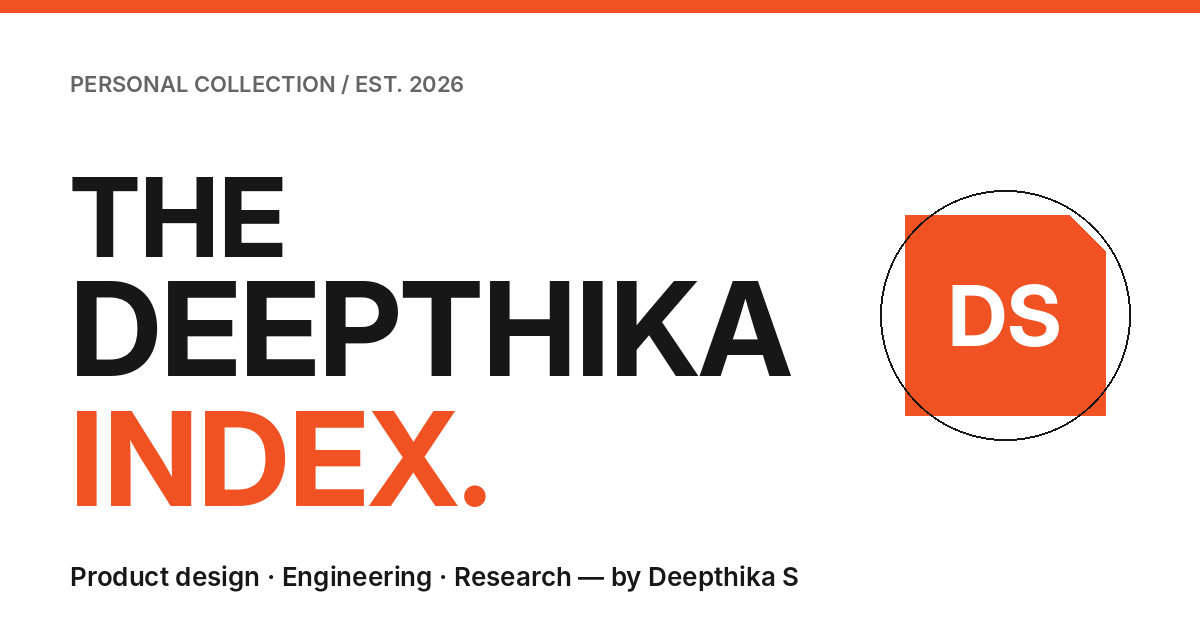
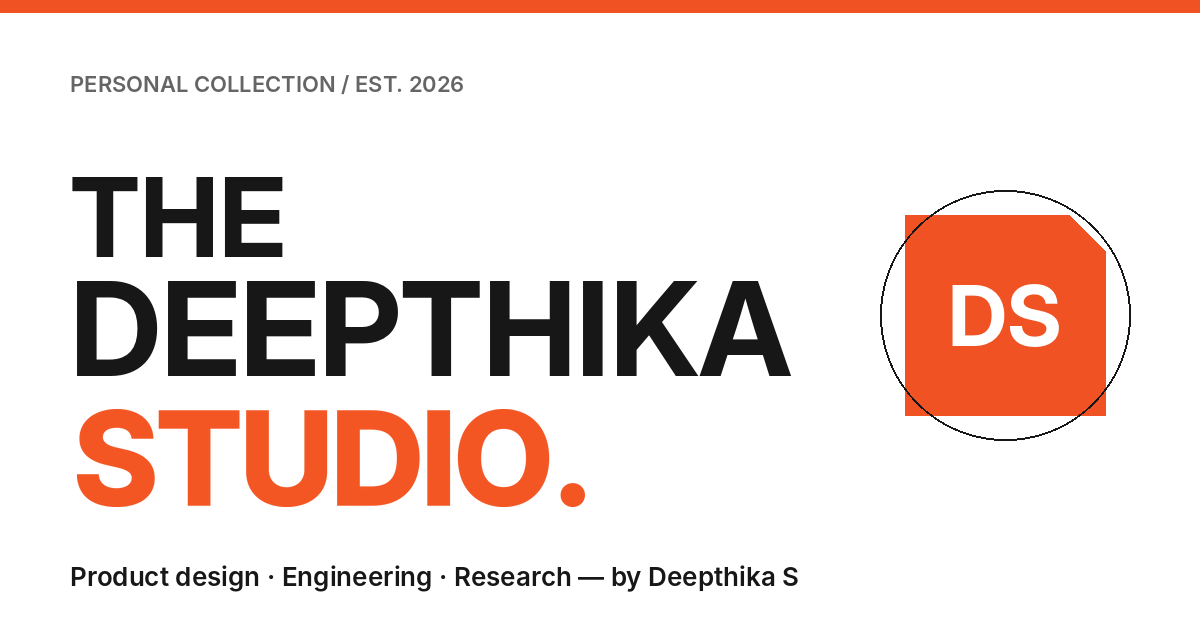
Rename "The Deepthika Index" to "The Deepthika Studio"
- Header brand, hero headline and label, curator's-note label, page
  title/description/OpenGraph metadata and CSS comments
- Trailing accent dot added to the hero headline and hero label (header
  already had it)
- Hero headline size reduced slightly so the longer "DEEPTHIKA STUDIO."
  still fits on one line at every width
- Regenerated the social share image with the new name

Claude-Session: https://claude.ai/code/session_01XdkNowy5XBxZxoaMtQra1b

Changed region(s): [[0.0617, 0.6333, 0.4933, 0.8143]]

diff --git a/app/layout.tsx b/app/layout.tsx
@@ -10,14 +10,14 @@ import Interactions from "@/components/Interactions";
 import { Analytics } from "@vercel/analytics/next";
 
 const siteUrl = process.env.NEXT_PUBLIC_SITE_URL ?? (process.env.VERCEL_PROJECT_PRODUCTION_URL ? `https://${process.env.VERCEL_PROJECT_PRODUCTION_URL}` : 'http://localhost:3000');
-const description = 'The Deepthika Index — a personal collection of product design, engineering, creative experiments and research by Deepthika S.';
+const description = 'The Deepthika Studio — a personal collection of product design, engineering, creative experiments and research by Deepthika S.';
 
 export const metadata: Metadata = {
   metadataBase: new URL(siteUrl),
-  title: 'The Deepthika Index — A Personal Collection by Deepthika S',
+  title: 'The Deepthika Studio — A Personal Collection by Deepthika S',
   description,
   keywords: ['Deepthika S', 'product design', 'human-centred design', 'electronics', 'interaction design', 'creative AI', 'design research'],
-  openGraph: { title: 'The Deepthika Index — A Personal Collection by Deepthika S', description, type: 'website', siteName: 'The Deepthika Index', images: [{ url: '/images/og-index.png', width: 1200, height: 630, alt: 'The Deepthika Index — a personal collection by Deepthika S' }] },
+  openGraph: { title: 'The Deepthika Studio — A Personal Collection by Deepthika S', description, type: 'website', siteName: 'The Deepthika Studio', images: [{ url: '/images/og-index.png', width: 1200, height: 630, alt: 'The Deepthika Studio — a personal collection by Deepthika S' }] },
   twitter: { card: 'summary_large_image' },
 };
 

diff --git a/app/hero-badge.css b/app/hero-badge.css
@@ -42,9 +42,10 @@ main .badge-hero .bh-photo:hover{filter:grayscale(0)}
 .bh-bar{left:5.4cqw;right:5cqw;top:131.2cqw;height:2.4cqw;background:var(--accent)}
 .bh-acc{right:5cqw;top:136.4cqw;font-weight:700;font-size:3.9cqw;letter-spacing:.01em;color:#171717}
 
-/* headline: THE sits beside the lower edge of the badge, DEEPTHIKA INDEX spans the page */
-.bh-title{position:relative;z-index:1;margin:calc(-11*var(--k)) 0 0;font-weight:800;font-size:calc(var(--hs,12.05)*var(--k));line-height:.9;letter-spacing:-.06em;text-transform:uppercase;white-space:nowrap}
+/* headline: THE sits beside the lower edge of the badge, DEEPTHIKA STUDIO spans the page */
+.bh-title{position:relative;z-index:1;margin:calc(-11*var(--k)) 0 0;font-weight:800;font-size:calc(var(--hs,10.85)*var(--k));line-height:.9;letter-spacing:-.06em;text-transform:uppercase;white-space:nowrap}
 .bh-title span{display:inline}
+.bh-title .dot,.bh-meta .dot{color:var(--accent)}
 .bh-title .t1{display:block;margin-bottom:.06em}
 .bh-cols{display:grid;grid-template-columns:1fr 1px 1fr;gap:calc(5.6*var(--k));margin-top:calc(4.4*var(--k));padding:0 calc(.5*var(--k))}
 .bh-col h2{margin:0 0 .6em;font-weight:700;font-size:max(18px,2.76*var(--k));line-height:1.18;letter-spacing:-.015em;text-transform:uppercase;max-width:13.2em}

diff --git a/components/Header.tsx b/components/Header.tsx
@@ -115,8 +115,8 @@ export default function Header() {
     <>
       <header className={`site-header index-header ${scrolled ? 'scrolled' : ''}`}>
         <div className="header-inner">
-          <Link href="/" className="brand" aria-label="The Deepthika Index — home">
-            THE DEEPTHIKA INDEX<span className="dot">.</span>
+          <Link href="/" className="brand" aria-label="The Deepthika Studio — home">
+            THE DEEPTHIKA STUDIO<span className="dot">.</span>
           </Link>
           <nav className="nav" aria-label="Primary">
             {navigation.map((item) => {
@@ -162,7 +162,7 @@ export default function Header() {
         <div ref={dialog} className="mobile-nav index-mobile-nav" role="dialog" aria-modal="true" aria-label="Navigation">
           <div className="top">
             <span className="brand">
-              THE DEEPTHIKA INDEX<span className="dot">.</span>
+              THE DEEPTHIKA STUDIO<span className="dot">.</span>
             </span>
             <button onClick={closeMenu} aria-label="Close menu">
               Close ×

diff --git a/components/BadgeHero.tsx b/components/BadgeHero.tsx
@@ -5,7 +5,7 @@ export default function BadgeHero() {
   return (
     <section className="badge-hero" aria-labelledby="bh-title">
       <div className="bh-stage">
-        <p className="bh-meta bh-meta-left" aria-hidden="true">THE DEEPTHIKA INDEX</p>
+        <p className="bh-meta bh-meta-left" aria-hidden="true">THE DEEPTHIKA STUDIO<span className="dot">.</span></p>
         <p className="bh-meta bh-meta-right">A PERSONAL ARCHIVE<br />OF IDEAS, OBJECTS &amp;<br />EXPERIMENTS</p>
 
         {/*
@@ -20,7 +20,7 @@ export default function BadgeHero() {
         </Reveal>
 
         <Reveal delay={0.12} y={24}>
-          <h1 id="bh-title" className="bh-title"><span className="t1">THE</span> <span className="t2">DEEPTHIKA</span> <span className="t3">INDEX</span></h1>
+          <h1 id="bh-title" className="bh-title"><span className="t1">THE</span> <span className="t2">DEEPTHIKA</span> <span className="t3">STUDIO<span className="dot">.</span></span></h1>
         </Reveal>
 
         <Reveal className="bh-cols" delay={0.2} y={20}>

diff --git a/app/about/page.tsx b/app/about/page.tsx
@@ -126,7 +126,7 @@ export default function About() {
   return <article className="editorial-about">
     <section className="curator-hero">
       <div className="wrap">
-        <div className="curator-topline"><span>THE DEEPTHIKA INDEX / 01</span><span>CURATOR'S NOTE · COIMBATORE, INDIA</span><span>EST. 2026</span></div>
+        <div className="curator-topline"><span>THE DEEPTHIKA STUDIO / 01</span><span>CURATOR'S NOTE · COIMBATORE, INDIA</span><span>EST. 2026</span></div>
         <div className="curator-hero-grid">
           <Reveal className="curator-portrait"><img src="/images/deepthika-portrait.jpg" alt="Portrait of Deepthika S, smiling, seated in a beige blazer and white shirt" width={1100} height={1251} /></Reveal>
           <div className="curator-copy">

diff --git a/app/editorial.css b/app/editorial.css
@@ -1,4 +1,4 @@
-/* The Deepthika Index — graphic editorial system.
+/* The Deepthika Studio — graphic editorial system.
    Tokens (colours, fonts, spacing) live in globals.css :root — this file only
    holds the layer for the header/footer, home page, About page and the
    case-study normalisation. */
